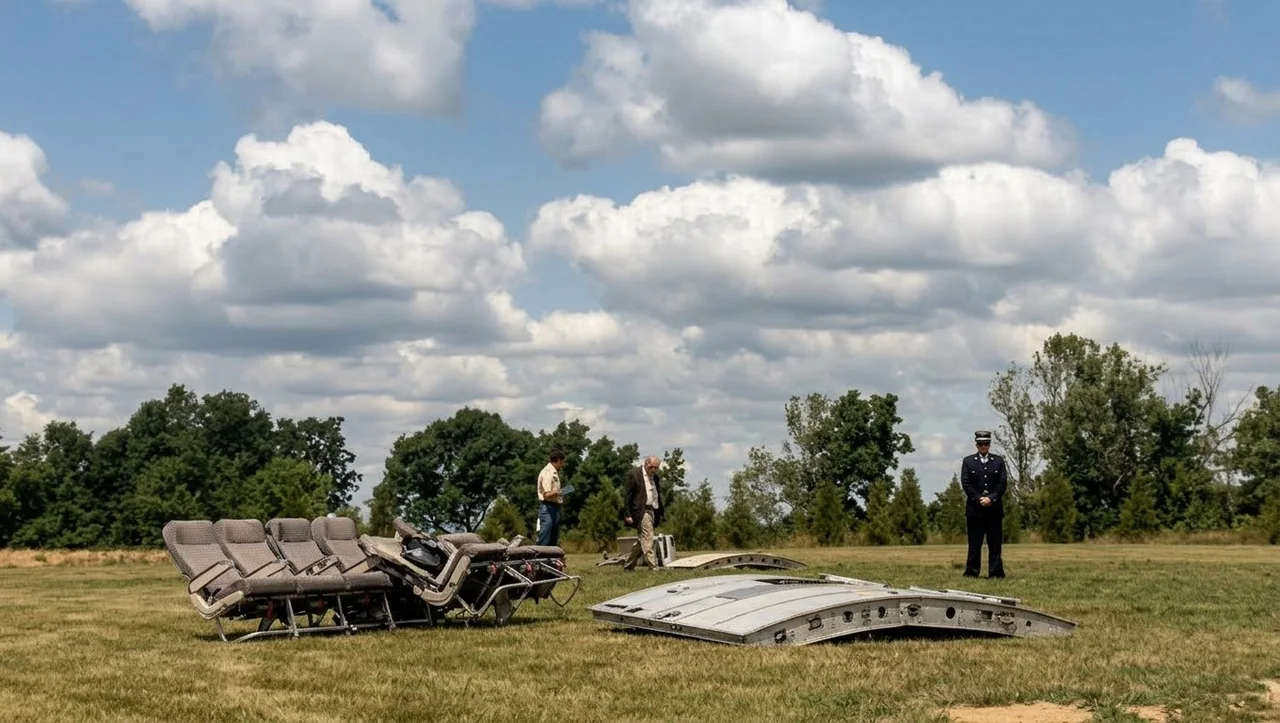
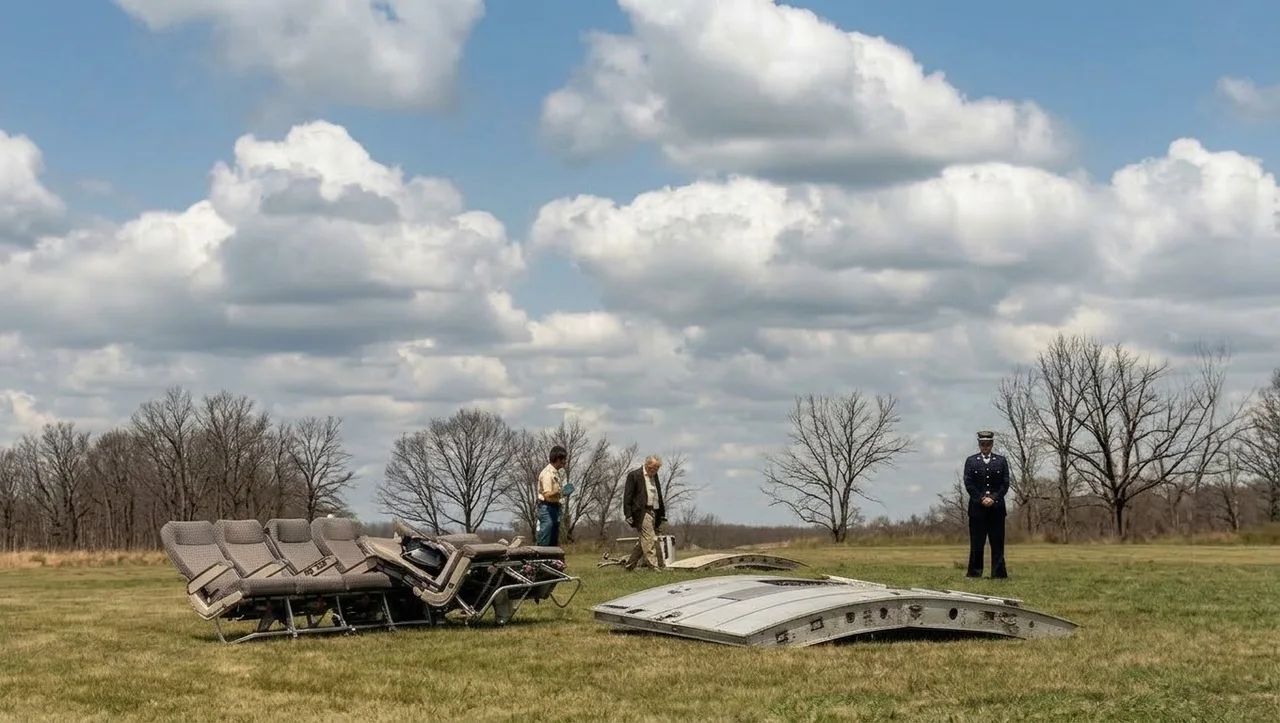
Hangar Escola: Saint-Pathus no fim do inverno, no capítulo 8 do Turkish 981
Claude-Session: https://claude.ai/code/session_01PxKViBYL6qRqF4hkoHqSJb

diff --git a/aviao/sw.js b/aviao/sw.js
@@ -1,7 +1,7 @@
 /* Service worker: o app abre e funciona offline. */
-const CACHE = 'hangar-escola-v185';
+const CACHE = 'hangar-escola-v186';
 // Os arquivos levam "?v=" no index.html: ao mudar a versão, o celular nunca mistura CSS/JS antigo com HTML novo.
-const FILES = ['./', 'index.html', 'style.css?v=185', 'avioes.js?v=185', 'catalogo747.js?v=185', 'cockpit747.js?v=185', 'motor3d.js?v=185', 'motor747.js?v=185', 'meteo.js?v=185', 'radio.js?v=185', 'historia.js?v=185', 'desastres.js?v=185', 'app.js?v=185', 'icon.svg', 'apple-touch-icon.png', 'icon-192.png', 'icon-512.png', 'manifest.webmanifest', 'assets/747-lateral.jpg', 'assets/747-frontal.jpg', 'assets/747-motor.jpg', 'assets/747-superior.png', 'assets/747-lado.webp', 'assets/747-lado-prof.webp', 'assets/747-tras.webp', 'assets/747-tras-trem.webp', 'assets/bank-angle.mp3', 'assets/v1.mp3', 'assets/nuvem-cb.webp', 'assets/nuvem-cu.webp', 'assets/nuvem-ci.webp', 'assets/nuvem-cc.webp', 'assets/nuvem-cs.webp', 'assets/nuvem-ac.webp', 'assets/nuvem-as.webp', 'assets/nuvem-ns.webp', 'assets/nuvem-sc.webp', 'assets/nuvem-st.webp', 'assets/nuvens-atlas.webp', 'assets/historia-1881.webp', 'assets/historia-vevey.webp', 'assets/historia-serraria.webp', 'assets/historia-dominguez.webp', 'assets/historia-curtiss.webp', 'assets/jal123-mapa.webp', 'assets/jal123-haneda.webp', 'assets/jal123-decolagem.webp', 'assets/jal123-cauda.webp', 'assets/jal123-cabine.webp', 'assets/jal123-hidraulico.webp', 'assets/jal123-manetes.webp', 'assets/jal123-montanhas.webp', 'assets/jal123-bilhete.webp', 'assets/jal123-c130.webp', 'assets/jal123-deriva.webp', 'assets/af447-mapa.webp', 'assets/af447-galeao.webp', 'assets/af447-decolagem.webp', 'assets/af447-lua.webp', 'assets/af447-tempestade.webp', 'assets/af447-painel.webp', 'assets/cauda-af.webp', 'assets/cauda-jal.webp', 'assets/cauda-mh.webp', 'assets/cauda-gol.webp', 'assets/cauda-tk.webp', 'assets/tk981-mapa.webp', 'assets/tk981-orly.webp', 'assets/tk981-dc10.webp', 'assets/tk981-porta.webp', 'assets/tk981-ganchos.webp', 'assets/tk981-decolagem.webp', 'assets/tk981-cabos.webp', 'assets/tk981-floresta.webp', 'assets/tk981-saintpathus.webp', 'assets/gol1907-mapa.webp', 'assets/gol1907-legacy-sjc.webp', 'assets/gol1907-737.webp', 'assets/gol1907-legacy-voo.webp', 'assets/gol1907-cabine-legacy.webp', 'assets/gol1907-acc.webp', 'assets/gol1907-choque.webp', 'assets/gol1907-queda.webp', 'assets/gol1907-legacy-dano.webp', 'assets/gol1907-painel.webp', 'assets/gol1907-mata.webp', 'assets/gol1907-relatorio.webp', 'assets/gol1907-apagao.webp', 'assets/gol1907-justica.webp', 'assets/gol1907-destrocos.webp', 'assets/gol1907-rumo.webp', 'assets/gol1907-falha.webp', 'assets/gol1907-tcas.webp', 'assets/gol1907-controle.webp', 'assets/af447-pitot.webp', 'assets/af447-pitot-gelo.webp', 'assets/af447-manches.webp', 'assets/af447-estol.webp', 'assets/af447-cabine.webp', 'assets/af447-queda.webp', 'assets/af447-deriva.webp', 'assets/af447-painel-voos.webp', 'assets/af447-fundo.webp', 'assets/af447-relatorio.webp', 'assets/af447-sondas.webp', 'assets/af447-tribunal.webp', 'assets/af447-estol-diagrama.webp', 'assets/mh370-mapa.webp', 'assets/mh370-klia.webp', 'assets/mh370-decolagem.webp', 'assets/mh370-cinto.webp', 'assets/mh370-radar.webp', 'assets/mh370-peninsula.webp', 'assets/mh370-oceano.webp', 'assets/mh370-ultimo-eco.webp', 'assets/mh370-satelite.webp', 'assets/mh370-busca.webp', 'assets/mh370-bluefin.webp', 'assets/mh370-deriva.webp'];
+const FILES = ['./', 'index.html', 'style.css?v=186', 'avioes.js?v=186', 'catalogo747.js?v=186', 'cockpit747.js?v=186', 'motor3d.js?v=186', 'motor747.js?v=186', 'meteo.js?v=186', 'radio.js?v=186', 'historia.js?v=186', 'desastres.js?v=186', 'app.js?v=186', 'icon.svg', 'apple-touch-icon.png', 'icon-192.png', 'icon-512.png', 'manifest.webmanifest', 'assets/747-lateral.jpg', 'assets/747-frontal.jpg', 'assets/747-motor.jpg', 'assets/747-superior.png', 'assets/747-lado.webp', 'assets/747-lado-prof.webp', 'assets/747-tras.webp', 'assets/747-tras-trem.webp', 'assets/bank-angle.mp3', 'assets/v1.mp3', 'assets/nuvem-cb.webp', 'assets/nuvem-cu.webp', 'assets/nuvem-ci.webp', 'assets/nuvem-cc.webp', 'assets/nuvem-cs.webp', 'assets/nuvem-ac.webp', 'assets/nuvem-as.webp', 'assets/nuvem-ns.webp', 'assets/nuvem-sc.webp', 'assets/nuvem-st.webp', 'assets/nuvens-atlas.webp', 'assets/historia-1881.webp', 'assets/historia-vevey.webp', 'assets/historia-serraria.webp', 'assets/historia-dominguez.webp', 'assets/historia-curtiss.webp', 'assets/jal123-mapa.webp', 'assets/jal123-haneda.webp', 'assets/jal123-decolagem.webp', 'assets/jal123-cauda.webp', 'assets/jal123-cabine.webp', 'assets/jal123-hidraulico.webp', 'assets/jal123-manetes.webp', 'assets/jal123-montanhas.webp', 'assets/jal123-bilhete.webp', 'assets/jal123-c130.webp', 'assets/jal123-deriva.webp', 'assets/af447-mapa.webp', 'assets/af447-galeao.webp', 'assets/af447-decolagem.webp', 'assets/af447-lua.webp', 'assets/af447-tempestade.webp', 'assets/af447-painel.webp', 'assets/cauda-af.webp', 'assets/cauda-jal.webp', 'assets/cauda-mh.webp', 'assets/cauda-gol.webp', 'assets/cauda-tk.webp', 'assets/tk981-mapa.webp', 'assets/tk981-orly.webp', 'assets/tk981-dc10.webp', 'assets/tk981-porta.webp', 'assets/tk981-ganchos.webp', 'assets/tk981-decolagem.webp', 'assets/tk981-cabos.webp', 'assets/tk981-floresta.webp', 'assets/tk981-saintpathus.webp', 'assets/gol1907-mapa.webp', 'assets/gol1907-legacy-sjc.webp', 'assets/gol1907-737.webp', 'assets/gol1907-legacy-voo.webp', 'assets/gol1907-cabine-legacy.webp', 'assets/gol1907-acc.webp', 'assets/gol1907-choque.webp', 'assets/gol1907-queda.webp', 'assets/gol1907-legacy-dano.webp', 'assets/gol1907-painel.webp', 'assets/gol1907-mata.webp', 'assets/gol1907-relatorio.webp', 'assets/gol1907-apagao.webp', 'assets/gol1907-justica.webp', 'assets/gol1907-destrocos.webp', 'assets/gol1907-rumo.webp', 'assets/gol1907-falha.webp', 'assets/gol1907-tcas.webp', 'assets/gol1907-controle.webp', 'assets/af447-pitot.webp', 'assets/af447-pitot-gelo.webp', 'assets/af447-manches.webp', 'assets/af447-estol.webp', 'assets/af447-cabine.webp', 'assets/af447-queda.webp', 'assets/af447-deriva.webp', 'assets/af447-painel-voos.webp', 'assets/af447-fundo.webp', 'assets/af447-relatorio.webp', 'assets/af447-sondas.webp', 'assets/af447-tribunal.webp', 'assets/af447-estol-diagrama.webp', 'assets/mh370-mapa.webp', 'assets/mh370-klia.webp', 'assets/mh370-decolagem.webp', 'assets/mh370-cinto.webp', 'assets/mh370-radar.webp', 'assets/mh370-peninsula.webp', 'assets/mh370-oceano.webp', 'assets/mh370-ultimo-eco.webp', 'assets/mh370-satelite.webp', 'assets/mh370-busca.webp', 'assets/mh370-bluefin.webp', 'assets/mh370-deriva.webp'];
 
 self.addEventListener('install', (e) => {
   e.waitUntil(caches.open(CACHE).then((c) => c.addAll(FILES)).then(() => self.skipWaiting()));

diff --git a/aviao/desastres.js b/aviao/desastres.js
@@ -914,7 +914,7 @@ const ACIDENTES = [
     p: ["No mesmo instante, o nariz do DC-10 baixou. O motor da cauda perdeu o comando e parou de responder. Os profundores, que fazem o avião subir e descer, não obedeciam mais aos manches.", "Os pilotos lutaram com o que restava. Puxavam os manches, mexiam nas manetes dos dois motores das asas. Mas, com os cabos rompidos, quase nada do que faziam chegava à cauda.", "O avião começou a mergulhar e a ganhar velocidade muito rápido. Na cabine de passageiros, a névoa, o vento e o barulho tomavam conta. Muitos provavelmente perceberam que estavam caindo.", "A velocidade passou dos 400 nós, mais de 750 km/h, muito acima do limite para aquela altitude. O chão chegava depressa."] },
   { t: "Ermenonville", foto: { src: "assets/tk981-floresta.webp", legenda: "Recriação do DC-10 TC-JAV entrando na floresta de Ermenonville, a cerca de 800 km/h (imagem ilustrativa)", tag: "12:41 · floresta de Ermenonville" }, parte: 2, hora: "12:41", lugar: "Floresta de Ermenonville", sabia: "A floresta de Ermenonville é uma mata antiga perto de Senlis, a cerca de 40 km ao norte de Paris, com o parque onde o filósofo Jean-Jacques Rousseau viveu seus últimos dias.", cena: CENAS.floresta,
     p: ["Às 12:41, cerca de 77 segundos depois de a porta se abrir, o DC-10 bateu nas árvores da floresta de Ermenonville, a cerca de 430 nós, perto de 800 km/h, levemente inclinado, com as asas quase niveladas.", "O avião se desfez completamente. Abriu uma faixa de destruição de centenas de metros na mata, derrubando árvores como se fossem palitos. Não sobrou nenhuma parte grande inteira.", "Todas as 346 pessoas a bordo morreram na hora.", "Foi o acidente aéreo mais mortal da história até então. Só seria superado em 1977, pelo choque de dois 747 em Tenerife."] },
-  { t: "Os seis de Saint-Pathus", foto: { src: "assets/tk981-saintpathus.webp", legenda: "Recriação da porta do porão e das poltronas caídas num campo perto de Saint-Pathus (imagem ilustrativa; em março de 1974 as árvores estavam sem folhas)", tag: "Saint-Pathus · a porta e as poltronas", tagTopo: true }, parte: 2, hora: "3 de março", lugar: "Saint-Pathus", sabia: "A porta do porão foi encontrada inteira, longe da floresta. Foi a primeira grande pista de que o problema tinha começado na traseira do avião.", cena: CENAS.campo,
+  { t: "Os seis de Saint-Pathus", foto: { src: "assets/tk981-saintpathus.webp", legenda: "Recriação da porta do porão e das poltronas caídas num campo perto de Saint-Pathus, no fim do inverno de 1974 (imagem ilustrativa)", tag: "Saint-Pathus · a porta e as poltronas", tagTopo: true }, parte: 2, hora: "3 de março", lugar: "Saint-Pathus", sabia: "A porta do porão foi encontrada inteira, longe da floresta. Foi a primeira grande pista de que o problema tinha começado na traseira do avião.", cena: CENAS.campo,
     p: ["A cerca de 15 km da floresta, num campo perto do vilarejo de Saint-Pathus, moradores encontraram a porta do porão traseiro do DC-10 caída na terra.", "Perto dela estavam as duas fileiras de poltronas e os seis passageiros que tinham sido sugados para fora no momento da descompressão. Eles caíram ali, muito antes do resto do avião.", "Aqueles achados mostraram aos investigadores, logo nas primeiras horas, a ordem do que tinha acontecido: primeiro a porta, depois o piso, depois a queda.", "Era exatamente o mesmo tipo de falha que já tinha acontecido com outro DC-10, dois anos antes."] },
   { t: "Na mata", parte: 2, hora: "Março de 1974", lugar: "Floresta de Ermenonville", sabia: "A identificação das vítimas levou meses e envolveu peritos de vários países, com fichas dentárias, documentos e objetos pessoais.", cena: CENAS.socorro,
     p: ["Bombeiros, policiais e soldados franceses chegaram à floresta pouco depois. O que encontraram foi devastador: os destroços estavam reduzidos a pedaços pequenos, espalhados entre as árvores.", "A área foi isolada e o trabalho de recolher as vítimas durou dias. Por causa da violência do impacto, identificar cada pessoa foi um trabalho lento e difícil.", "Em vários países, famílias souberam pelo rádio e pela televisão que seus parentes estavam num voo para o qual tinham trocado de última hora, por causa da greve.", "Muitas das vítimas eram jovens. Entre elas, dezenas de torcedores de rúgbi que voltavam do jogo de Paris."] },

diff --git a/aviao/index.html b/aviao/index.html
@@ -17,7 +17,7 @@
   <link rel="preconnect" href="https://fonts.googleapis.com">
   <link rel="preconnect" href="https://fonts.gstatic.com" crossorigin>
   <link href="https://fonts.googleapis.com/css2?family=Barlow+Condensed:wght@500;600;700&family=IBM+Plex+Mono:wght@400;500&family=IBM+Plex+Sans:wght@400;500;600&display=swap" rel="stylesheet">
-  <link rel="stylesheet" href="style.css?v=185">
+  <link rel="stylesheet" href="style.css?v=186">
 </head>
 <body>
   <!-- Intro: o avião decola pela pista iluminada e aparece o nome do app (toque para pular) -->
@@ -989,16 +989,16 @@
       </div>
     </section>
   </aside>
-  <script src="avioes.js?v=185"></script>
-  <script src="catalogo747.js?v=185"></script>
-  <script src="cockpit747.js?v=185"></script>
-  <script src="motor3d.js?v=185"></script>
-  <script src="motor747.js?v=185"></script>
-  <script src="meteo.js?v=185"></script>
-  <script src="radio.js?v=185"></script>
-  <script src="historia.js?v=185"></script>
-  <script src="desastres.js?v=185"></script>
-  <script src="app.js?v=185"></script>
+  <script src="avioes.js?v=186"></script>
+  <script src="catalogo747.js?v=186"></script>
+  <script src="cockpit747.js?v=186"></script>
+  <script src="motor3d.js?v=186"></script>
+  <script src="motor747.js?v=186"></script>
+  <script src="meteo.js?v=186"></script>
+  <script src="radio.js?v=186"></script>
+  <script src="historia.js?v=186"></script>
+  <script src="desastres.js?v=186"></script>
+  <script src="app.js?v=186"></script>
   <script>
     // No APK os arquivos já vêm dentro do app; o service worker é só para o site.
     const nativo = !!(window.Capacitor && window.Capacitor.isNativePlatform && window.Capacitor.isNativePlatform());
